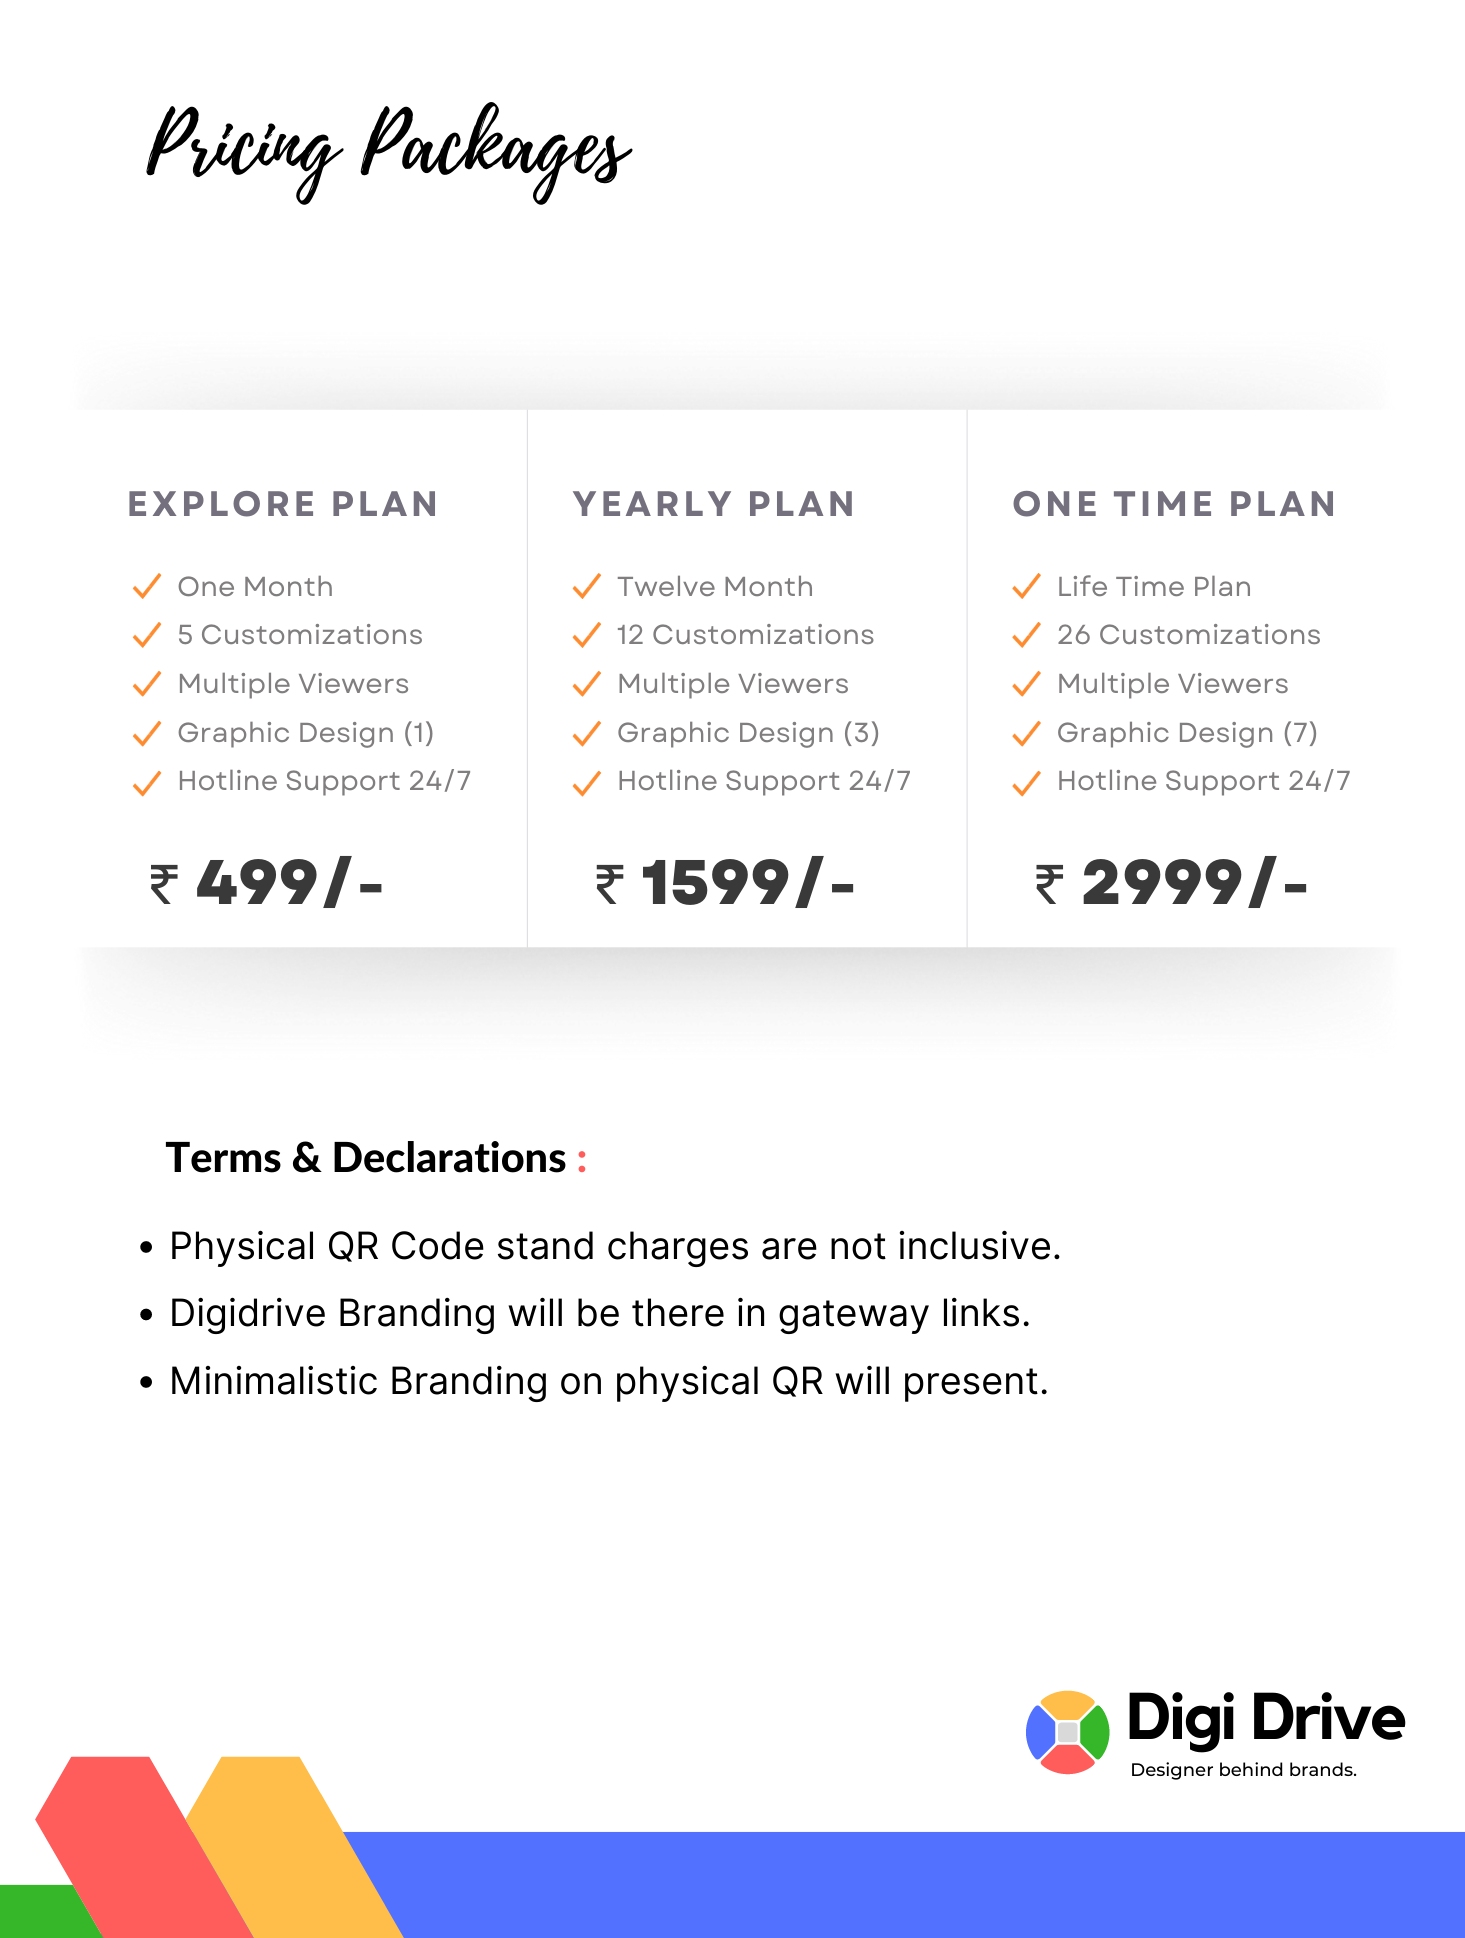
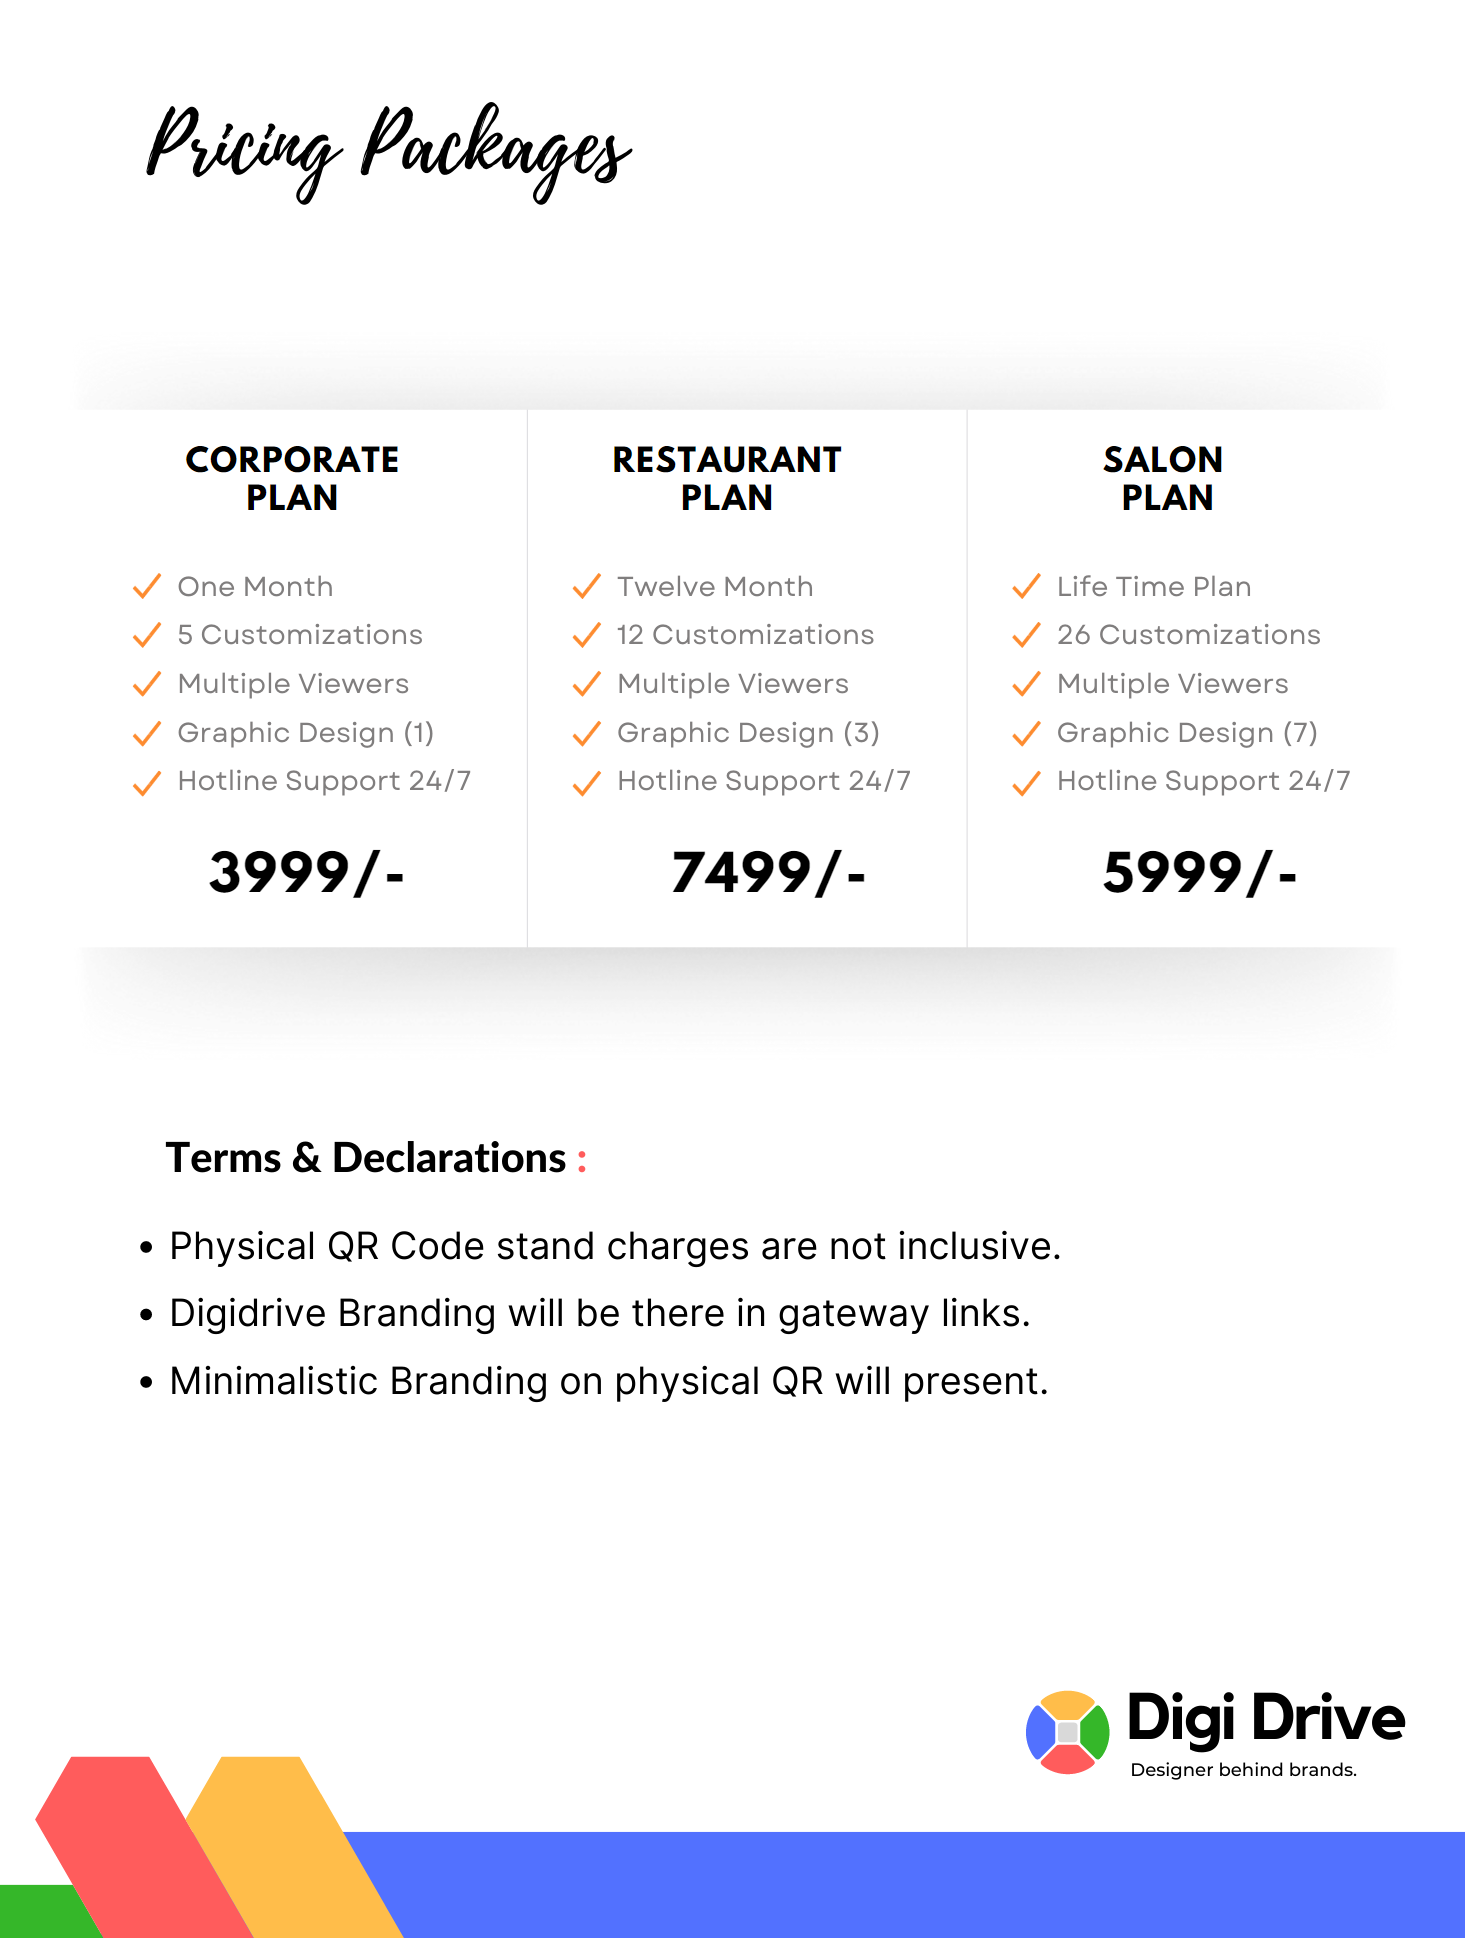
1

diff --git a/pricing.html b/pricing.html
@@ -273,12 +273,12 @@
               >
                 <div class="pricing-header pricing-amount">
                   <div class="annual_price">
-                    <h2 class="price">2499 INR</h2>
+                    <h2 class="price">3999 INR</h2>
                   </div>
                   <!-- /.annual_price -->
 
                   <div class="monthly_price">
-                    <h2 class="price">&#8377 2499/-</h2>
+                    <h2 class="price">&#8377 3999/-</h2>
                   </div>
                   <!-- /.monthly_price -->
 
@@ -316,12 +316,12 @@
 
                 <div class="pricing-header pricing-amount">
                   <div class="annual_price">
-                    <h2 class="price">$80.50</h2>
+                    <h2 class="price">7499/-</h2>
                   </div>
                   <!-- /.annual_price -->
 
                   <div class="monthly_price">
-                    <h2 class="price">&#8377 4999/-</h2>
+                    <h2 class="price">&#8377 7499/-</h2>
                   </div>
                   <!-- /.monthly_price -->
 
@@ -359,7 +359,7 @@
                   <!-- /.annual_price -->
 
                   <div class="monthly_price">
-                    <h2 class="price">&#8377 3999/-</h2>
+                    <h2 class="price">&#8377 5999/-</h2>
                   </div>
                   <!-- /.monthly_price -->
 
@@ -430,8 +430,7 @@
                   <li>
                     <i class="icon-location-pin icons"></i>
                     <p>
-                      105, CBE Saraswati Sadan, Opp. Gurudwara, Mira Road
-                      401107.
+                      Shop no 6, 7, Sai Akruti Empire, near RBK Global School, Indralok Phase 6, Bhayandar, Mumbai  401107
                     </p>
                   </li>
                 </ul>
@@ -447,12 +446,12 @@
                 <ul class="travel-contact-info">
                   <li>
                     <i class="icon-envelope icons"></i>
-                    <p>Digidriveindia@gmail.com</p>
+                    <p>digitalnerdmkt@gmail.com</p>
                   </li>
 
                   <li>
                     <i class="icon-phone icons"></i>
-                    <p>+91 7715969921</p>
+                    <p>+91 9892489826 </p>
                   </li>
                 </ul>
               </div>

diff --git a/contact.html b/contact.html
@@ -298,12 +298,12 @@
                 <div class="contact-info">
                   <h3 class="title">Our Location</h3>
                   <p class="description">
-                    105, CBE Saraswati Sadan, Opp. Gurudwara, Mira Road 401107.
+                    Shop no 6, 7, Sai Akruti Empire, near RBK Global School, Indralok Phase 6, Bhayandar, Mumbai  401107
                   </p>
 
                   <div class="info phone">
                     <i class="ei ei-icon_phone"></i>
-                    <span>+91 7715969921</span>
+                    <span>+91 9892489826 </span>
                   </div>
                 </div>
                 <!-- /.contact-info -->
@@ -313,7 +313,7 @@
 
                   <div class="info">
                     <i class="ei ei-icon_mail_alt"></i>
-                    <span>digidriveindia@gmail.com</span>
+                    <span>digitalnerdmkt@gmail.com</span>
                   </div>
                 </div>
                 <!-- /.contact-info -->
@@ -435,8 +435,7 @@
                   <li>
                     <i class="icon-location-pin icons"></i>
                     <p>
-                      105, CBE Saraswati Sadan, Opp. Gurudwara, Mira Road
-                      401107.
+                      Shop no 6, 7, Sai Akruti Empire, near RBK Global School, Indralok Phase 6, Bhayandar, Mumbai  401107
                     </p>
                   </li>
                 </ul>
@@ -452,12 +451,12 @@
                 <ul class="travel-contact-info">
                   <li>
                     <i class="icon-envelope icons"></i>
-                    <p>Digidriveindia@gmail.com</p>
+                    <p>digitalnerdmkt@gmail.com</p>
                   </li>
 
                   <li>
                     <i class="icon-phone icons"></i>
-                    <p>+91 7715969921</p>
+                    <p>+91 9892489826 </p>
                   </li>
                 </ul>
               </div>

diff --git a/index.html b/index.html
@@ -189,7 +189,7 @@
 
                 <div class="nav-right">
                   <div class="header-contact-info">
-                    <i class="icon-phone icons"></i>+91 7715969921
+                    <i class="icon-phone icons"></i>+91 9892489826 
                   </div>
                 </div>
               </div>
@@ -770,8 +770,7 @@
                   <li>
                     <i class="icon-location-pin icons"></i>
                     <p>
-                      105, CBE Saraswati Sadan, Opp. Gurudwara, Mira Road
-                      401107.
+                      Shop no 6, 7, Sai Akruti Empire, near RBK Global School, Indralok Phase 6, Bhayandar, Mumbai  401107
                     </p>
                   </li>
                 </ul>
@@ -787,12 +786,12 @@
                 <ul class="travel-contact-info">
                   <li>
                     <i class="icon-envelope icons"></i>
-                    <p>Digidriveindia@gmail.com</p>
+                    <p>digitalnerdmkt@gmail.com</p>
                   </li>
 
                   <li>
                     <i class="icon-phone icons"></i>
-                    <p>+91 7715969921</p>
+                    <p>+91 9892489826 </p>
                   </li>
                 </ul>
               </div>

diff --git a/about.html b/about.html
@@ -482,7 +482,7 @@
 
             
 
-            <a href="tel:+91 7715969921" class="pix-btn btn-light">Free Consultation</a>
+            <a href="tel:+91 9892489826 " class="pix-btn btn-light">Free Consultation</a>
           </div>
           <!-- /.action-content -->
         </div>
@@ -538,8 +538,7 @@
                   <li>
                     <i class="icon-location-pin icons"></i>
                     <p>
-                      105, CBE Saraswati Sadan, Opp. Gurudwara, Mira Road
-                      401107.
+                      Shop no 6, 7, Sai Akruti Empire, near RBK Global School, Indralok Phase 6, Bhayandar, Mumbai  401107
                     </p>
                   </li>
                 </ul>
@@ -555,12 +554,12 @@
                 <ul class="travel-contact-info">
                   <li>
                     <i class="icon-envelope icons"></i>
-                    <p>Digidriveindia@gmail.com</p>
+                    <p>digitalnerdmkt@gmail.com</p>
                   </li>
 
                   <li>
                     <i class="icon-phone icons"></i>
-                    <p>+91 7715969921</p>
+                    <p>+91 9892489826 </p>
                   </li>
                 </ul>
               </div>

diff --git a/service.html b/service.html
@@ -595,8 +595,7 @@ Consultation with Digi Drive<br />
                   <li>
                     <i class="icon-location-pin icons"></i>
                     <p>
-                      105, CBE Saraswati Sadan, Opp. Gurudwara, Mira Road
-                      401107.
+                      Shop no 6, 7, Sai Akruti Empire, near RBK Global School, Indralok Phase 6, Bhayandar, Mumbai  401107
                     </p>
                   </li>
                 </ul>
@@ -612,12 +611,12 @@ Consultation with Digi Drive<br />
                 <ul class="travel-contact-info">
                   <li>
                     <i class="icon-envelope icons"></i>
-                    <p>Digidriveindia@gmail.com</p>
+                    <p>digitalnerdmkt@gmail.com</p>
                   </li>
 
                   <li>
                     <i class="icon-phone icons"></i>
-                    <p>+91 7715969921</p>
+                    <p>+91 9892489826 </p>
                   </li>
                 </ul>
               </div>

diff --git a/sheraton/Body Rituals.html b/sheraton/Body Rituals.html
@@ -54,7 +54,7 @@ body{font-family:'Open Sans',sans-serif;color:#33373d;max-width:415px;margin:0 a
     <div class="container-fluid">
         <div class="col-md-12 col-xs-12 col-sm-12 text-center">
             <div class="terms">
-            <p><a href="tel:7715969921">Developed by digidrive</a></p>
+            <p><a href="tel:9892489826 ">Developed by digidrive</a></p>
             </div>
         </div>
     </div>

diff --git a/sheraton/Hair creations or Facials & Threading.html b/sheraton/Hair creations or Facials & Threading.html
@@ -54,7 +54,7 @@ body{font-family:'Open Sans',sans-serif;color:#33373d;max-width:415px;margin:0 a
     <div class="container-fluid">
         <div class="col-md-12 col-xs-12 col-sm-12 text-center">
             <div class="terms">
-            <p><a href="tel:7715969921">Developed by digidrive</a></p>
+            <p><a href="tel:9892489826 ">Developed by digidrive</a></p>
             </div>
         </div>
     </div>

diff --git a/sheraton/Haircut & Stylisation - for HER.html b/sheraton/Haircut & Stylisation - for HER.html
@@ -55,7 +55,7 @@ body{font-family:'Open Sans',sans-serif;color:#33373d;max-width:415px;margin:0 a
     <div class="container-fluid">
         <div class="col-md-12 col-xs-12 col-sm-12 text-center">
             <div class="terms">
-            <p><a href="tel:7715969921">Developed by digidrive</a></p>
+            <p><a href="tel:9892489826 ">Developed by digidrive</a></p>
             </div>
         </div>
     </div>

diff --git a/sheraton/Haircut & Stylisation - for HIM.html b/sheraton/Haircut & Stylisation - for HIM.html
@@ -54,7 +54,7 @@ body{font-family:'Open Sans',sans-serif;color:#33373d;max-width:415px;margin:0 a
     <div class="container-fluid">
         <div class="col-md-12 col-xs-12 col-sm-12 text-center">
             <div class="terms">
-            <p><a href="tel:7715969921">Developed by digidrive</a></p>
+            <p><a href="tel:9892489826 ">Developed by digidrive</a></p>
             </div>
         </div>
     </div>

diff --git a/sheraton/Honours & Certifications.html b/sheraton/Honours & Certifications.html
@@ -54,7 +54,7 @@ body{font-family:'Open Sans',sans-serif;color:#33373d;max-width:415px;margin:0 a
     <div class="container-fluid">
         <div class="col-md-12 col-xs-12 col-sm-12 text-center">
             <div class="terms">
-            <p><a href="tel:7715969921">Developed by digidrive</a></p>
+            <p><a href="tel:9892489826 ">Developed by digidrive</a></p>
             </div>
         </div>
     </div>

diff --git a/sheraton/Makeovers & Bleaching.html b/sheraton/Makeovers & Bleaching.html
@@ -54,7 +54,7 @@ body{font-family:'Open Sans',sans-serif;color:#33373d;max-width:415px;margin:0 a
     <div class="container-fluid">
         <div class="col-md-12 col-xs-12 col-sm-12 text-center">
             <div class="terms">
-            <p><a href="tel:7715969921">Developed by digidrive</a></p>
+            <p><a href="tel:9892489826 ">Developed by digidrive</a></p>
             </div>
         </div>
     </div>

diff --git a/sheraton/Nails & Extension.html b/sheraton/Nails & Extension.html
@@ -54,7 +54,7 @@ body{font-family:'Open Sans',sans-serif;color:#33373d;max-width:415px;margin:0 a
     <div class="container-fluid">
         <div class="col-md-12 col-xs-12 col-sm-12 text-center">
             <div class="terms">
-            <p><a href="tel:7715969921">Developed by digidrive</a></p>
+            <p><a href="tel:9892489826 ">Developed by digidrive</a></p>
             </div>
         </div>
     </div>
